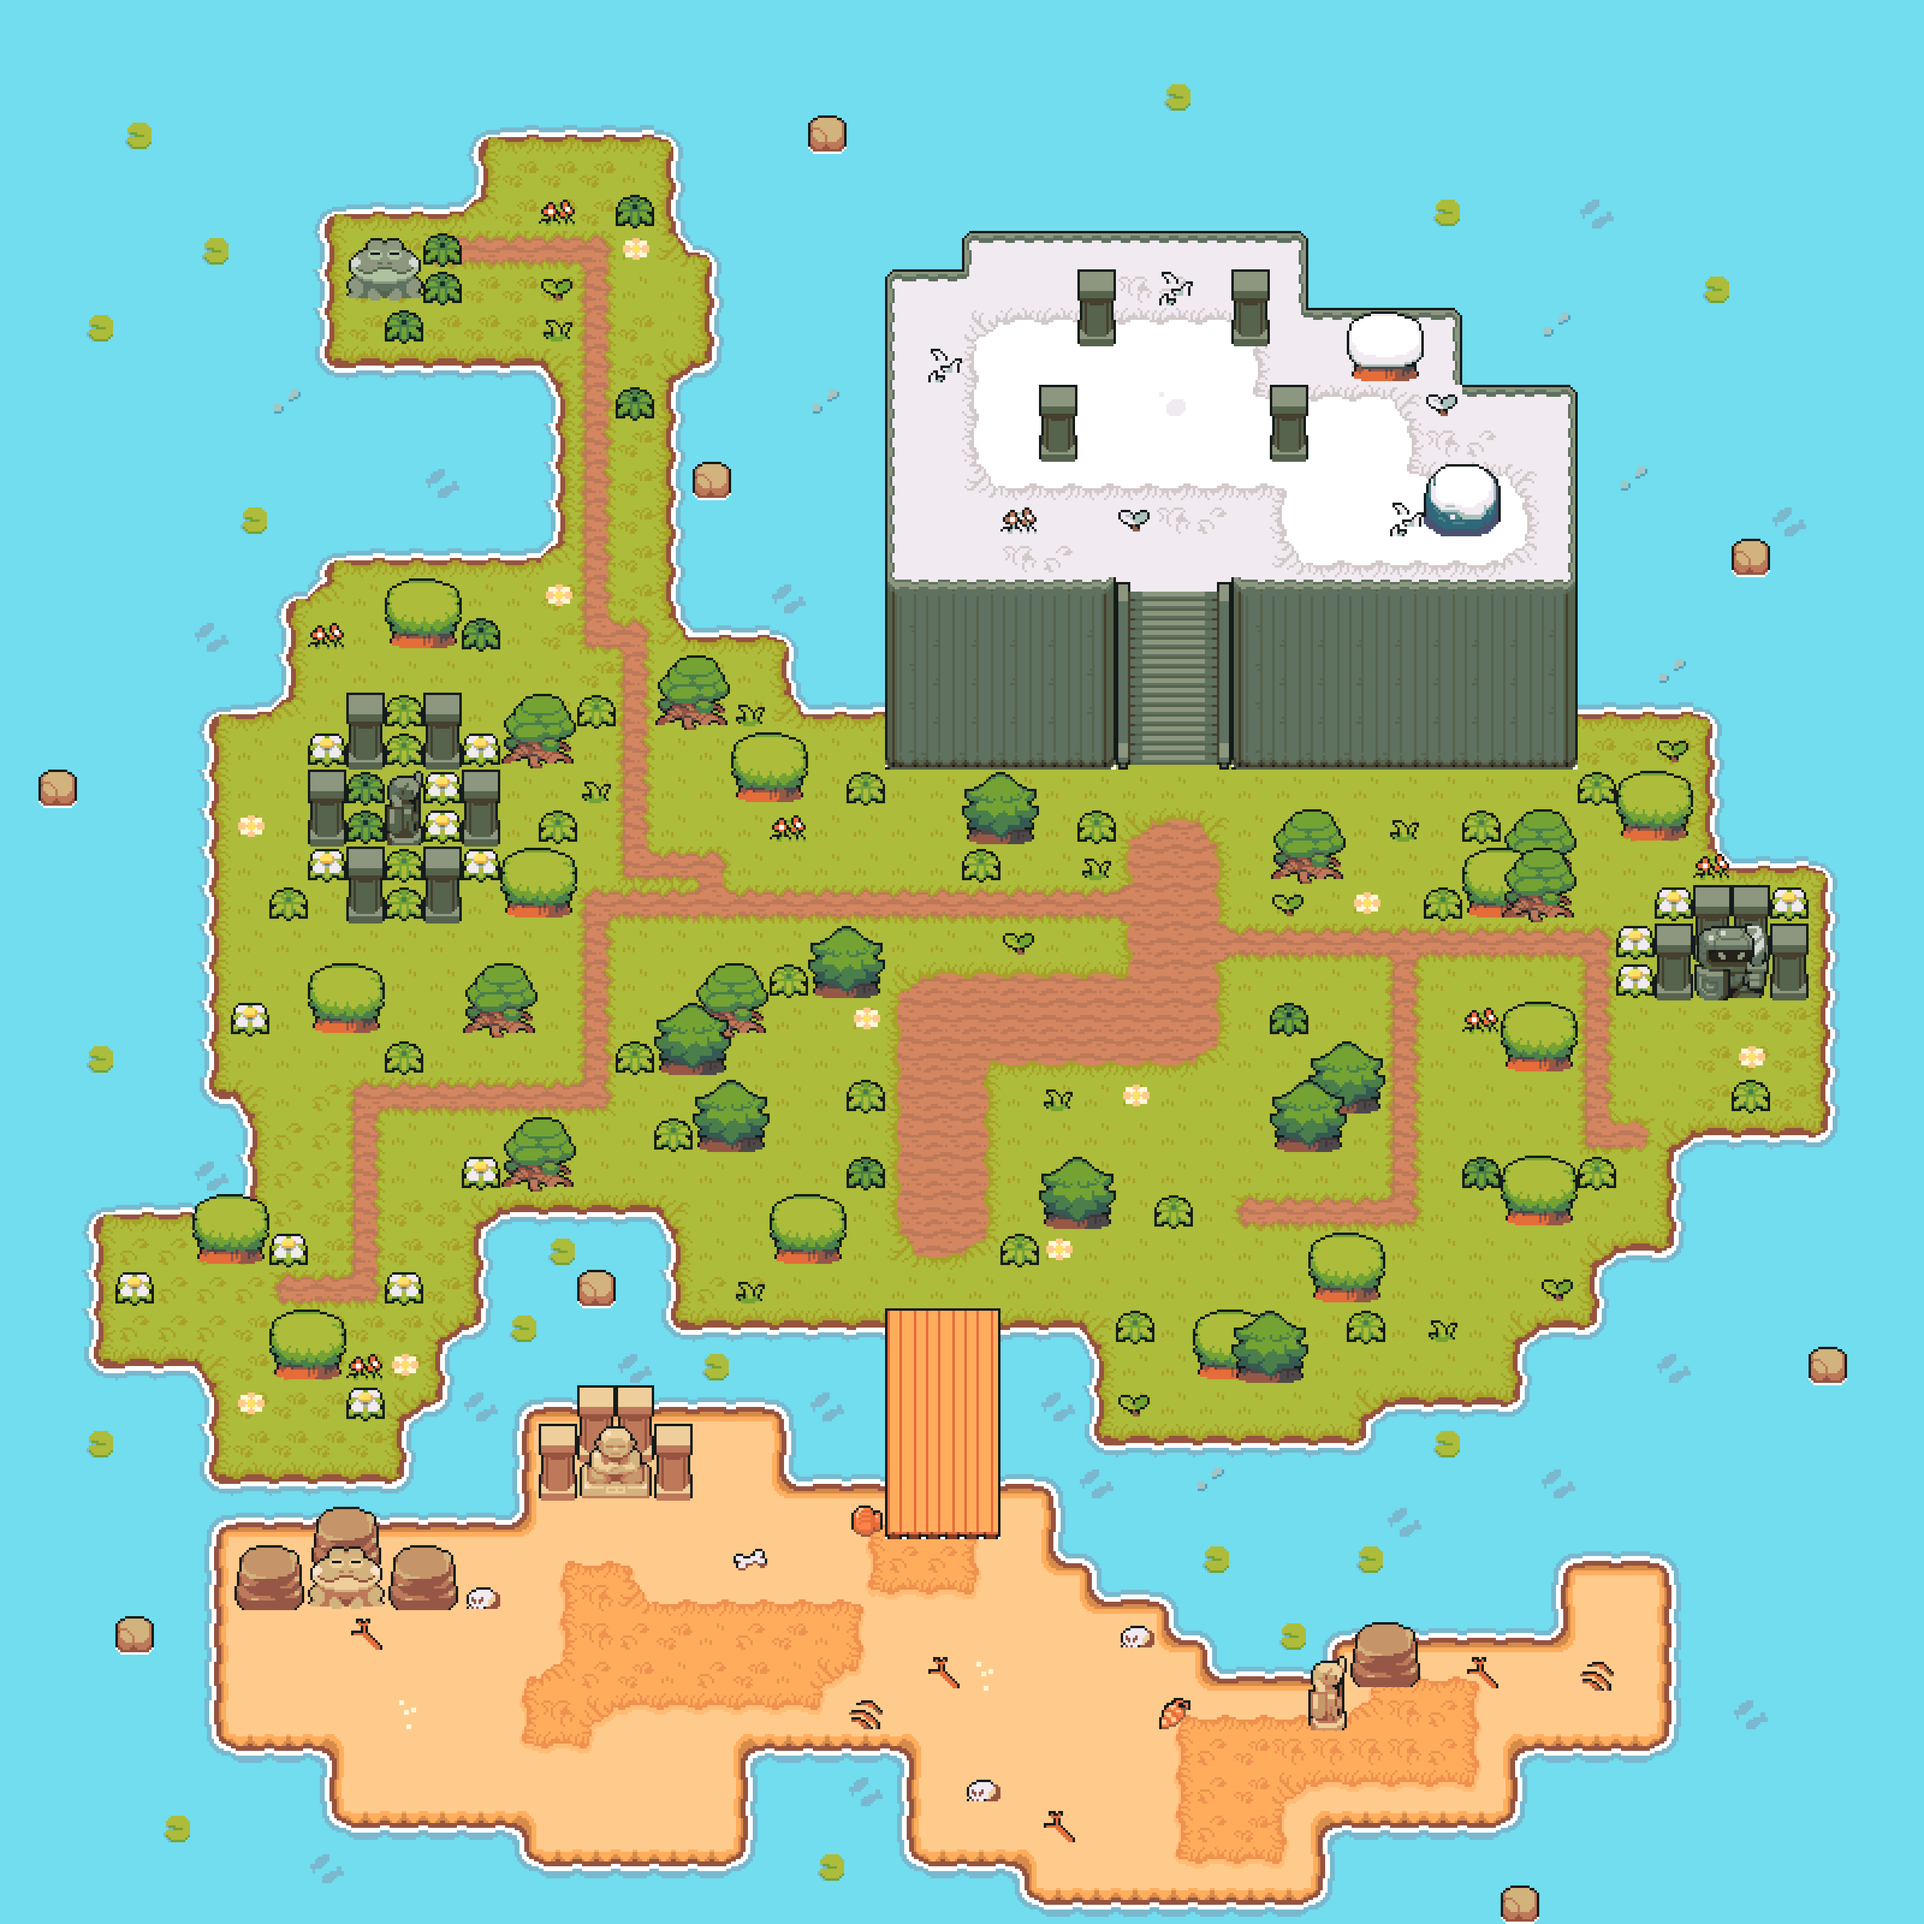
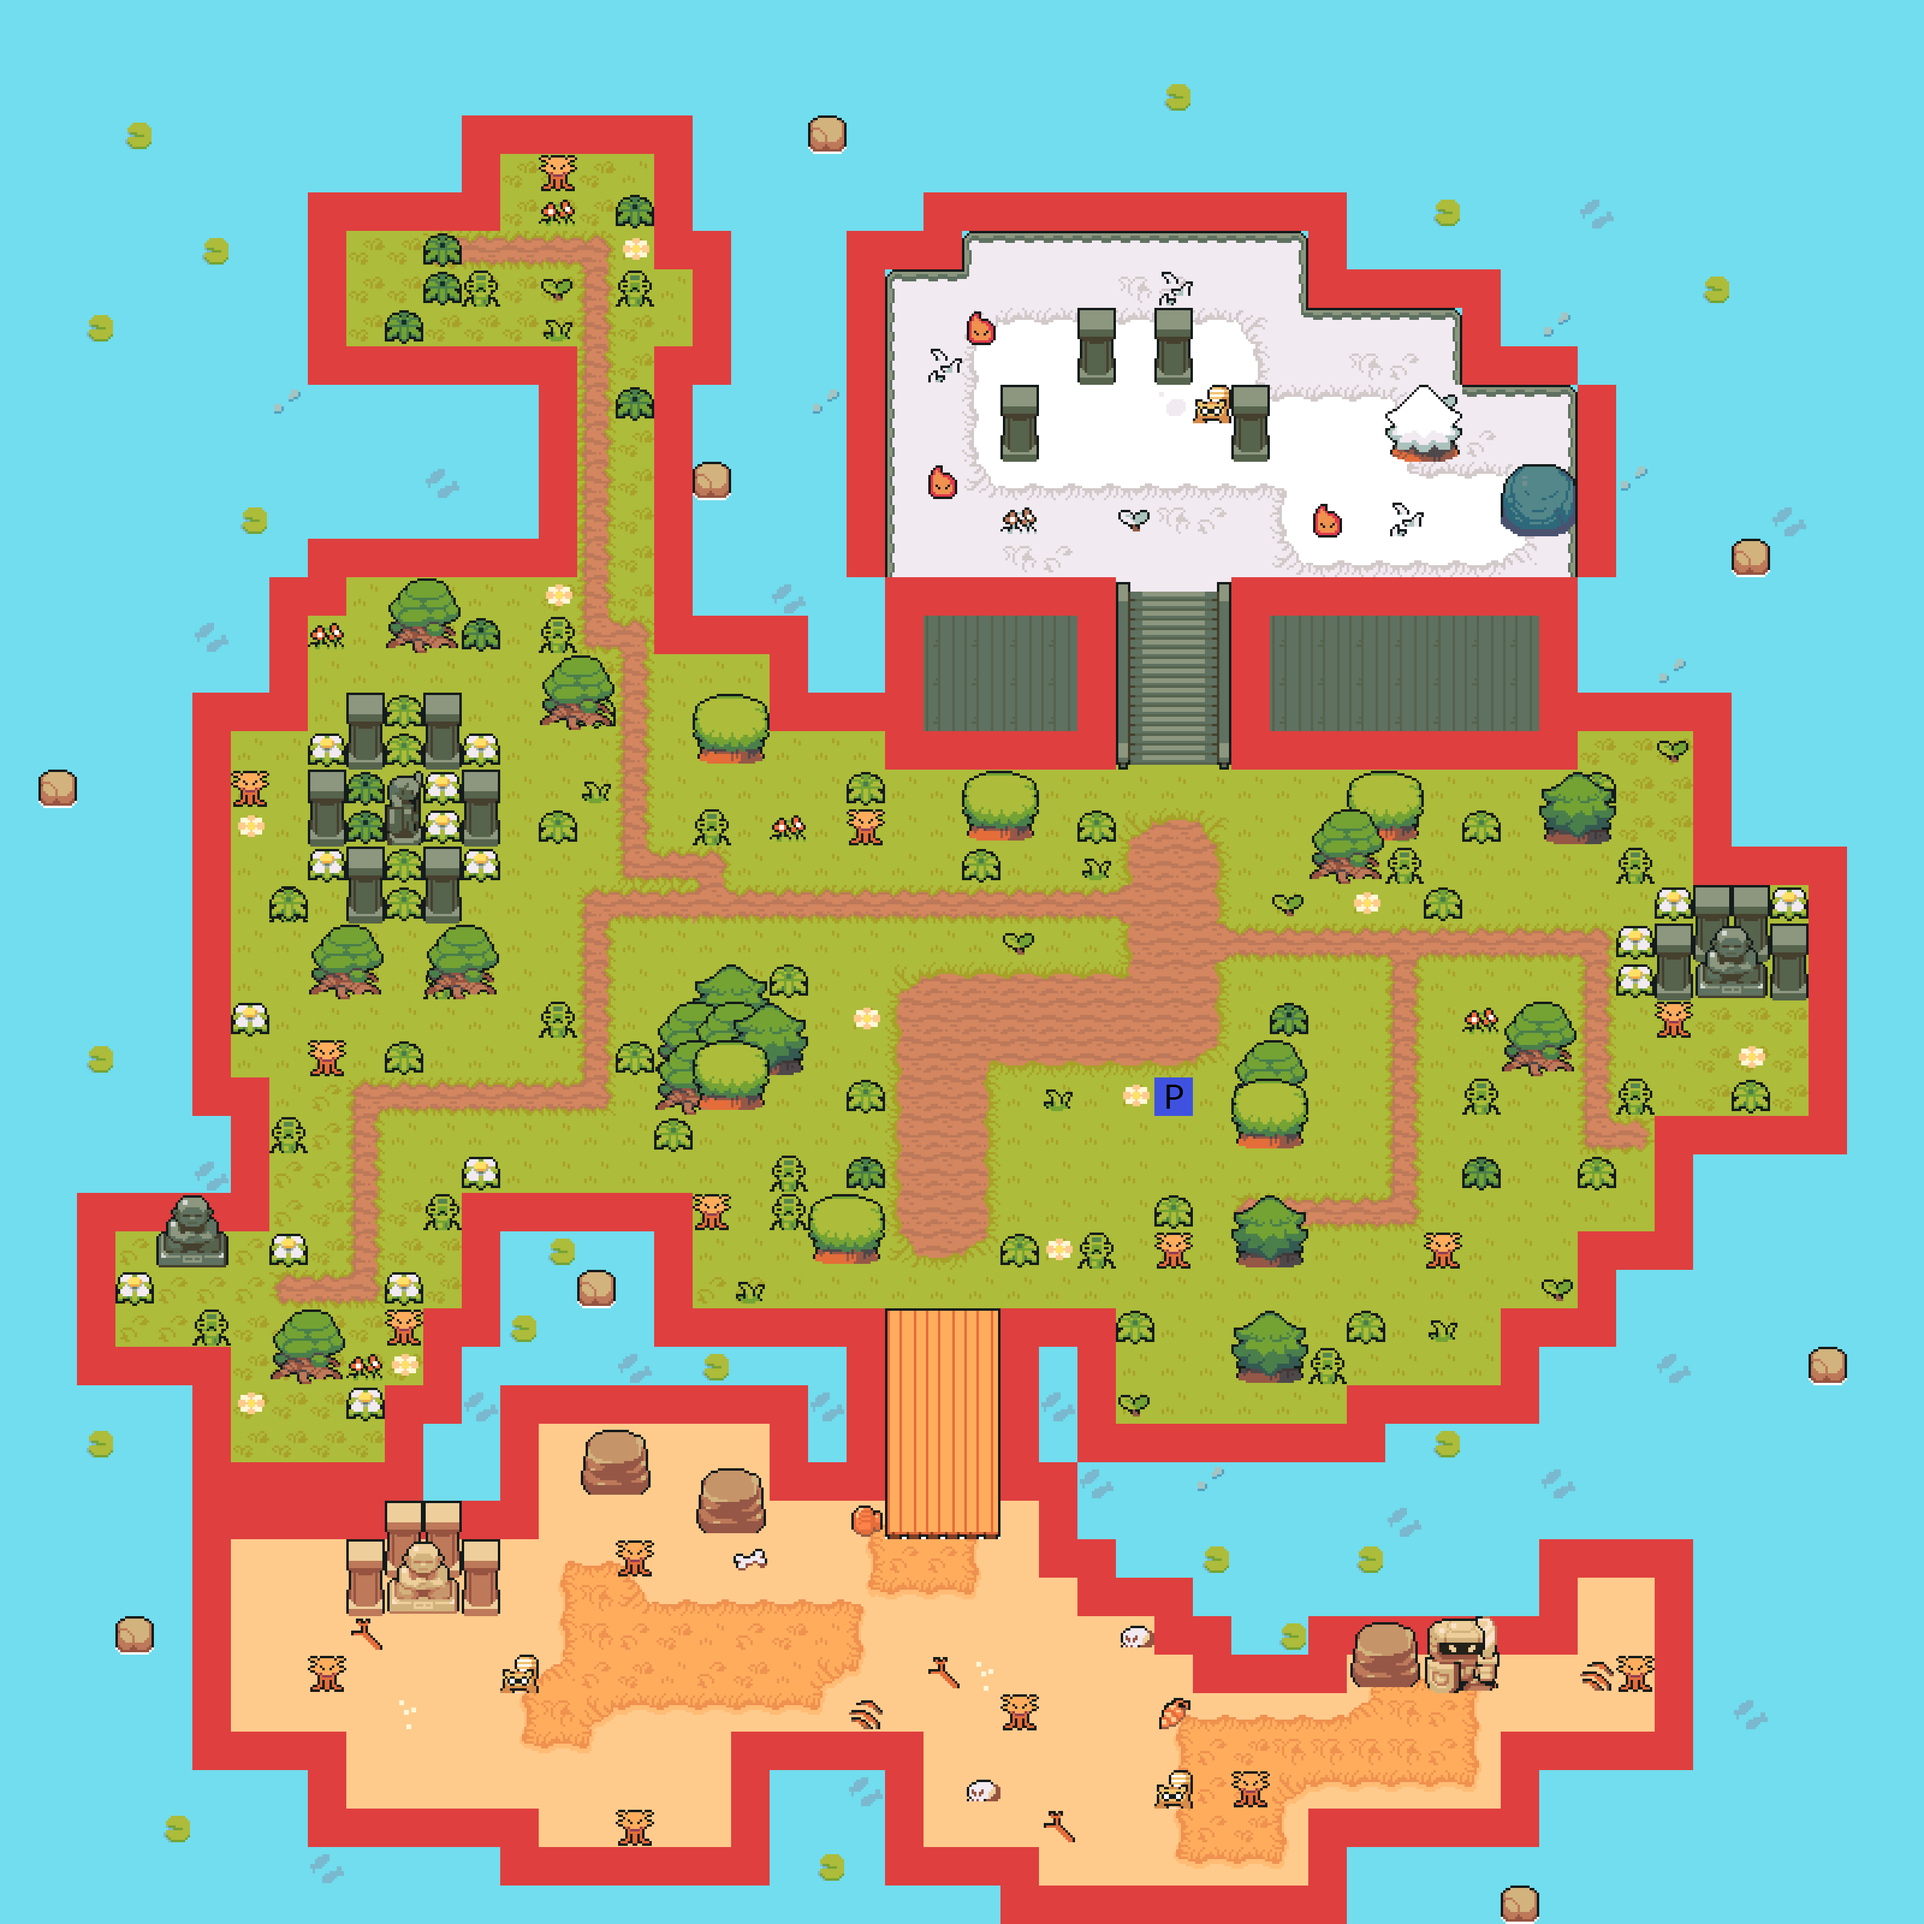
fixed the issue by setting the image directory for each objects in tiled to the latest version of images in the file explorer, also sperated the tile and player into different files

Changed region(s): [[0.0312, 0.0625, 0.9688, 1.0], [0.5, 0.875, 0.5625, 0.9062], [0.75, 0.5625, 0.7812, 0.5938]]

diff --git a/code/qx_farm_level.py b/code/qx_farm_level.py
@@ -1,6 +1,7 @@
 import pygame
 from qx_farm_settings import *
-from qx_farm_groups import Tile, Player
+from qx_farm_player import Player
+from qx_farm_tile import Tile
 from qx_support import *
 from random import choice
 
@@ -41,9 +42,9 @@ class Level:
                             random_grass_image = choice(graphics["grass"])
                             Tile((x,y),[self.visible_sprites,self.obstacles_sprites],"grass",random_grass_image)
                         
-                        if style == "object":
-                            surf = graphics['objects'][int(col)]
-                            Tile((x,y),[self.visible_sprites,self.obstacles_sprites],"object",surf)
+                       # if style == "object":
+                        #    surf = graphics['objects'][int(col)]
+                         #   Tile((x,y),[self.visible_sprites,self.obstacles_sprites],"object",surf)
         self.player = Player((1800,1600),[self.visible_sprites],self.obstacles_sprites)
 
     def run(self):

diff --git a/code/qx_farm_player.py b/code/qx_farm_player.py
@@ -1,14 +1,6 @@
 import pygame
 from qx_farm_settings import *
 
-class Tile(pygame.sprite.Sprite):
-    def __init__(self,pos,groups,sprite_type,surf = pygame.Surface((TILESIZE,TILESIZE))):
-        super().__init__(groups)
-        self.sprite_type = sprite_type
-        self.image = surf
-        self.rect = self.image.get_rect(topleft = pos)
-        self.hitbox = self.rect.inflate(0,-10)
-
 class Player(pygame.sprite.Sprite):
     def __init__(self,pos,groups,obstacle_sprites):
         super().__init__(groups)

diff --git a/code/qx_farm_tile.py b/code/qx_farm_tile.py
@@ -1,0 +1,10 @@
+import pygame
+from qx_farm_settings import *
+
+class Tile(pygame.sprite.Sprite):
+    def __init__(self,pos,groups,sprite_type,surf = pygame.Surface((TILESIZE,TILESIZE))):
+        super().__init__(groups)
+        self.sprite_type = sprite_type
+        self.image = surf
+        self.rect = self.image.get_rect(topleft = pos)
+        self.hitbox = self.rect.inflate(0,-10)
